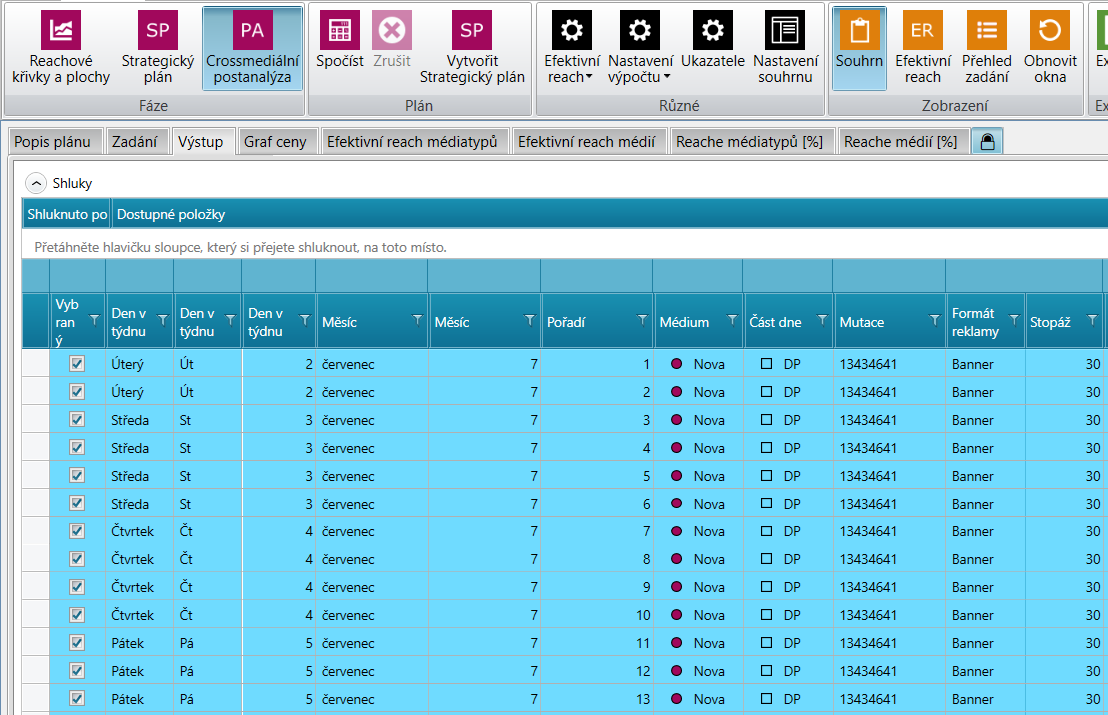
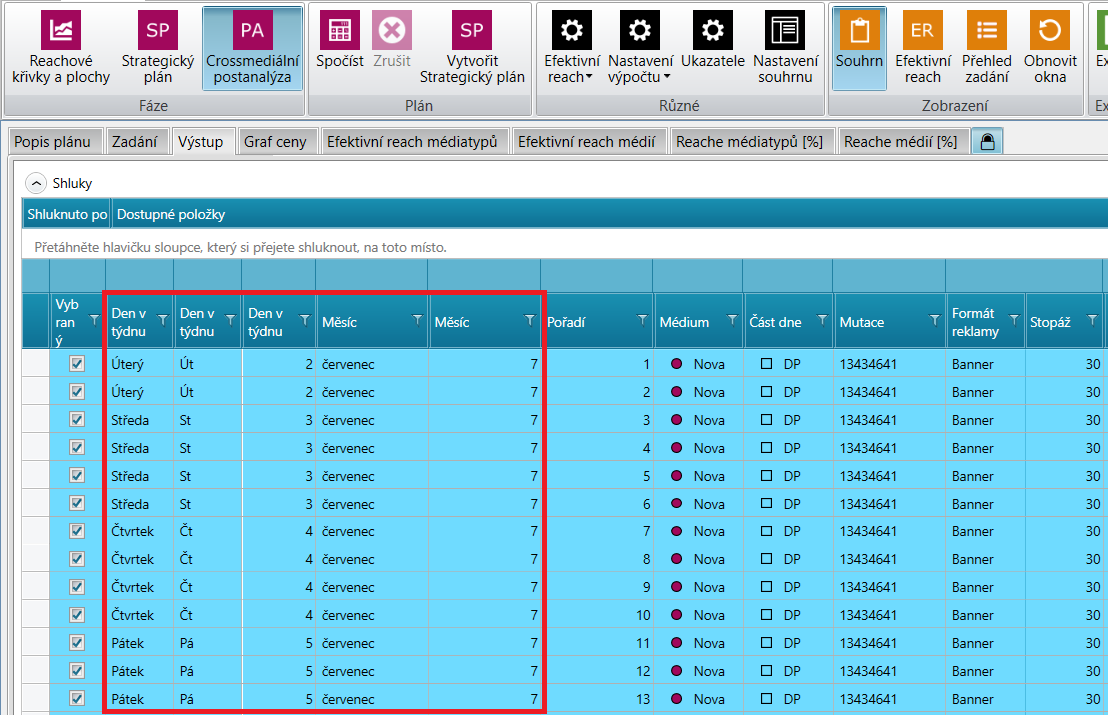
2.0v9 uprava obrazku a textu

Changed region(s): [[0.0921, 0.4, 0.491, 1.0]]

diff --git a/_posts/1999-01-01-2.0.0.md b/_posts/1999-01-01-2.0.0.md
@@ -24,14 +24,13 @@ Do <abbr title="Strategický plán">SP</abbr> a Seskupení dle ukazatelů v <abb
 ![Relativní průměrná frekvence v Seskupení dle ukazatelů]({{site.url}}/data/raf2.png "Relativní průměrná frekvence v Seskupení dle ukazatelů")
 
 ## <abbr title="Strategický plán">SP</abbr>, <abbr title="Postanalýza">PA</abbr>, <abbr title="Crossmediální postanalýza">CMPA</abbr> - Den v týdnum, Měsíc - nastavitelný formát
-Nově lze v okně Ukazatele nastavit textový, nebo číselný formát u ukazatele Den v týdnu a Měsíc.
+Nově lze v okně Ukazatele nastavit textový, nebo číselný formát pro ukazatele Den v týdnu a Měsíc.
 
 ![Nastavitelný formát]({{site.url}}/data/denvtydnumesicformat.png "Nastavitelný formát")
 
 ## <abbr title="Strategický plán">SP</abbr>, <abbr title="Crossmediální postanalýza">CMPA</abbr> - výpočet s rozhlasovými a rádiovými sítěmi
-ROZEPSAT TEXT
+V <abbr title="Strategický plán">SP</abbr> lze nově počítat s rozhlasovými sítěmi a v <abbr title="Crossmediální postanalýza">CMPA</abbr> s rádiovými sitěmi.
 
-![Rádiové sítě]({{site.url}}/data/radiosite.png "Rádiové sítě")
 
 ## <abbr title="Detailní plán">DP</abbr> - Zpět/Znovu
 Do <abbr title="Detailní plán">DP</abbr> byla přidána funkce Zpět/Znovu (Undo/Redo), která umožňuje vracet provedené změny na výstupu.
@@ -85,10 +84,10 @@ Klávesová zkratka CTRL-F otevírá textové vyhledávání ve všech cloudový
 <ul>
 	<li>Editor <abbr title="Cílová skupina">CS</abbr> - při otevření se ve stromě označí vybraná hlavní <abbr title="Cílová skupina">CS</abbr></li>
 	<li><abbr title="Strategický plán">SP</abbr> - vylepšení optimalizace, pokud médium nemůže generovat žádné zásahy (žádný reach)</li>
-	<li><abbr title="Strategický plán">SP</abbr> - Výstup - Zakázat nyní nastaví vyplněné hodnoty na 0; Zafixovat nastaví Max. a Min. TRP na vyplněnou hodnotu TRP
-	<li><abbr title="Detailní plán">DP</abbr> - při vytvoření <abbr title="Postanalýza">PA</abbr> z <abbr title="Detailní plán">DP</abbr> se pořadí vybraných spotů nyní bere podle ukazatele Pořadí spotu v bloku
+	<li><abbr title="Strategický plán">SP</abbr> - Výstup - Zakázat nyní nastaví vyplněné hodnoty na 0; Zafixovat nastaví Max. a Min. TRP na vyplněnou hodnotu TRP</li>
+	<li><abbr title="Detailní plán">DP</abbr> - při vytvoření <abbr title="Postanalýza">PA</abbr> z <abbr title="Detailní plán">DP</abbr> se pořadí vybraných spotů nyní bere podle ukazatele Pořadí spotu v bloku</li>
 	<li><abbr title="Postanalýza">PA</abbr> - Seskupení dle ukazatelů - přidán nový ukazatel Cena za 30s</li>
 	<li><abbr title="Postanalýza">PA</abbr> - Kódovníky - přidán nový ukazatel Den v týdnu</li>
-	<li>Okno Ukazatele - nově lze duplicitní ukazatele nastavovat každý zvlášť (výpočet pro všechny <abbr title="Cílová skupina">CS</abbr>, podmíněné formátování, ...)
+	<li>Okno Ukazatele - nově lze duplicitní ukazatele nastavovat každý zvlášť (výpočet pro všechny <abbr title="Cílová skupina">CS</abbr>, podmíněné formátování, ...)</li>
 	<li>Zrychlení spouštění aplikace</li>
 </ul>
